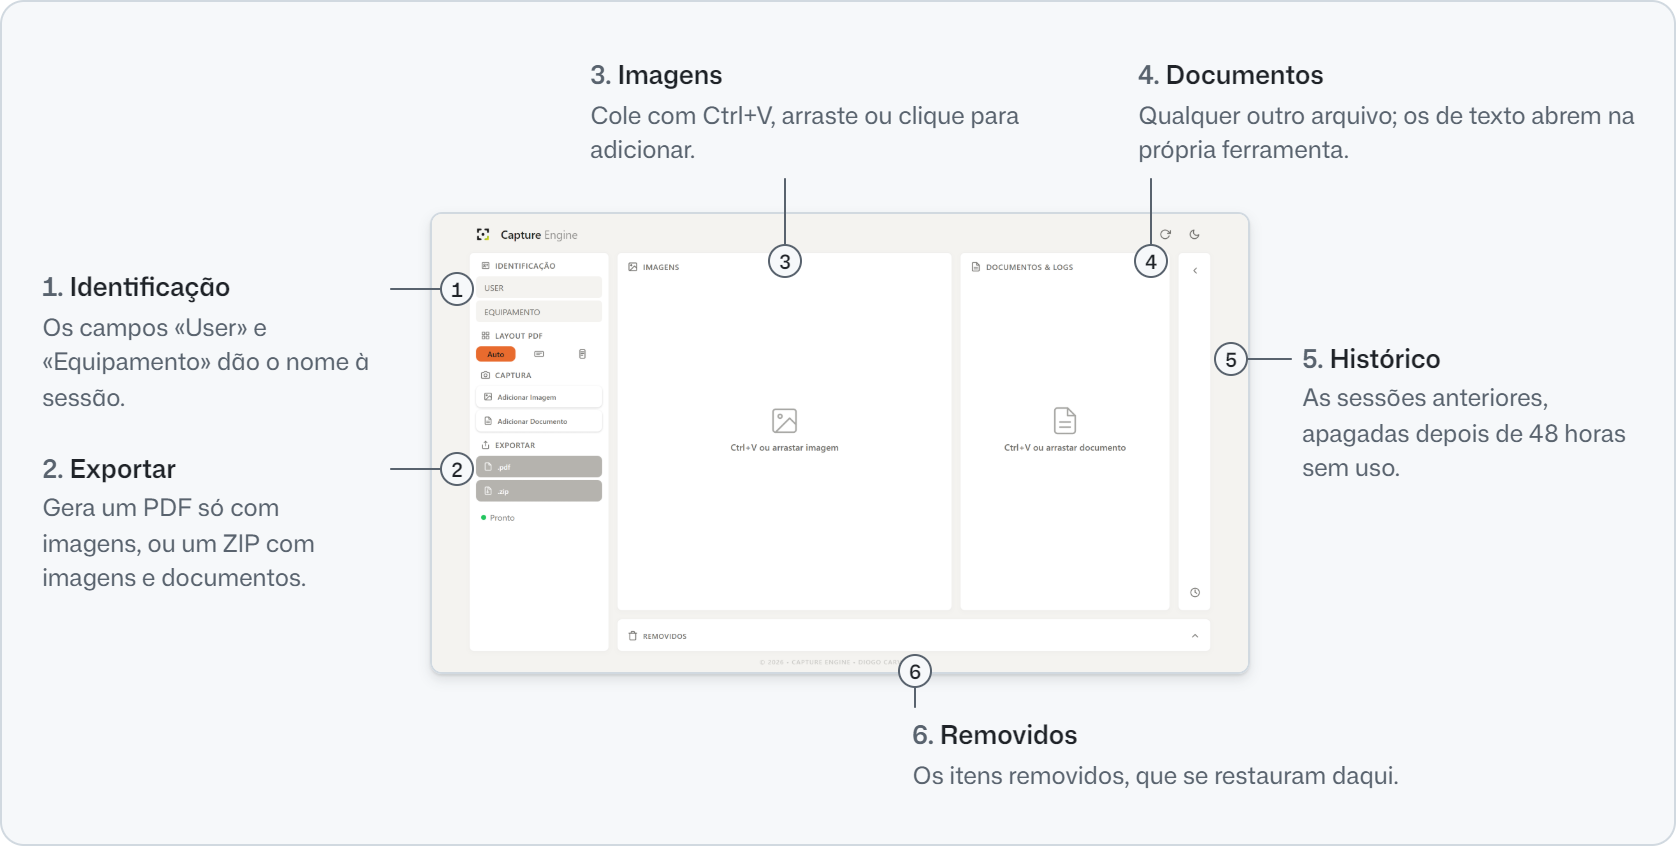
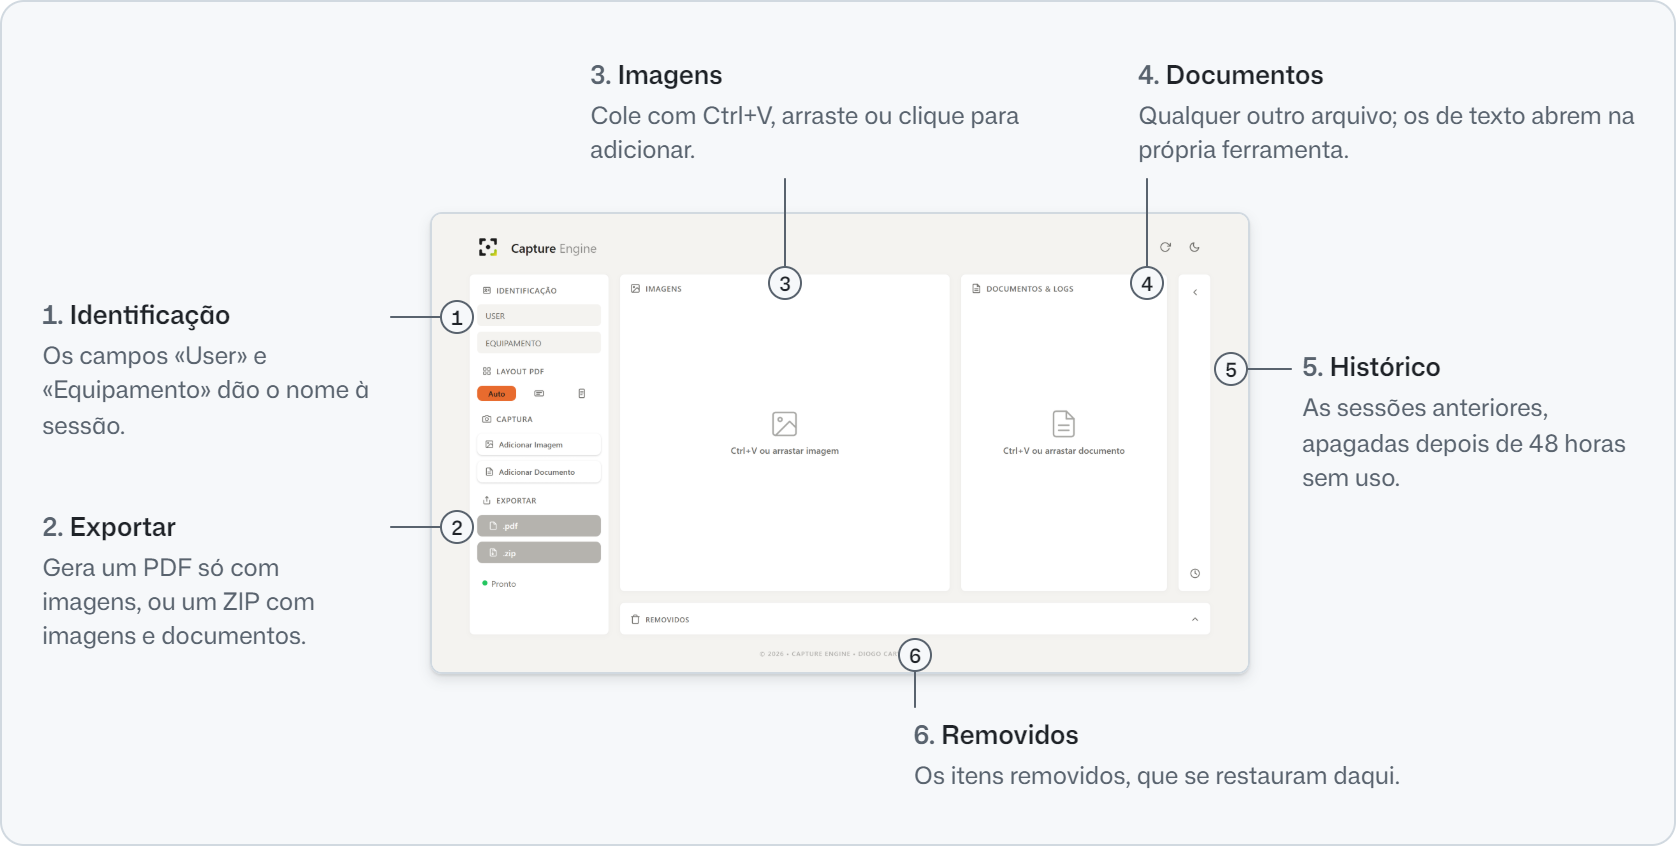
fix(ui): barra lateral sem aperto com o Windows a 125 % e 150 %
O modo compacto ligava abaixo de 800 px de altura, mesmo quando a barra cabia no tamanho normal. Agora liga só até 700 px e fica menos apertado: cerca de 14 px entre as seções, 6 px dentro delas e textos de 12 px. A imagem principal do README acompanha.

diff --git a/capture-engine.html b/capture-engine.html
@@ -2490,8 +2490,10 @@
       }
     }
 
-    /* ═══ RESPONSIVE HEIGHT (Small Laptops) ═══ */
-    @media (height <= 50rem) and (width >= 56.3125rem) {
+    /* ═══ RESPONSIVE HEIGHT (Small Laptops) ═══
+       Compact mode for short screens. Up to 700 px of height only: at 125 % Windows scaling (about 1536 x 777) the side panel fits
+       at its normal size, and compressing it there made it look cramped. At 150 % (about 1280 x 633) it compresses, but less */
+    @media (height <= 43.75rem) and (width >= 56.3125rem) {
       #top-bar {
         padding: calc(var(--spacing) * 3) calc(var(--spacing) * 16) calc(var(--spacing) * 1);
         min-height: 48px
@@ -2525,12 +2527,12 @@
       }
 
       #left-sidebar {
-        gap: clamp(4px, 1.5vh, calc(var(--spacing) * 2));
-        padding: clamp(4px, 1vh, calc(var(--spacing) * 2)) calc(var(--spacing) * 2.5)
+        gap: clamp(8px, 2.2vh, calc(var(--spacing) * 4));
+        padding: clamp(8px, 1.5vh, calc(var(--spacing) * 3)) calc(var(--spacing) * 2.5)
       }
 
       #left-sidebar>div {
-        gap: clamp(2px, 1vh, calc(var(--spacing) * 1)) !important
+        gap: clamp(4px, 1vh, calc(var(--spacing) * 2)) !important
       }
 
       #left-sidebar .sess-input {
@@ -2541,7 +2543,7 @@
       #left-sidebar .btn-send {
         height: clamp(24px, 4vh, 32px);
         min-height: 24px;
-        font-size: clamp(11px, 1.5vh, 12px);
+        font-size: var(--text-xs);
         padding: 0 calc(var(--spacing) * 3)
       }
 
@@ -3274,7 +3276,7 @@
   </div>
 
 
-  <!-- VISUAL BUILDER MODAL (28.5.1) -->
+  <!-- VISUAL BUILDER MODAL (28.5.2) -->
   <!-- ADMIN_EDIT_START -->
   <div class="sb-overlay" id="vb-overlay">
     <div class="sb-modal" style="max-width:520px">
@@ -3292,7 +3294,7 @@
             </path>
           </svg>
           Visual Builder <span
-            style="font-size:var(--text-caption);background:var(--color-border);padding:calc(var(--spacing) * 0.5) calc(var(--spacing) * 1.5);border-radius:var(--radius-sm);margin-left:calc(var(--spacing) * 1.5)">28.5.1</span>
+            style="font-size:var(--text-caption);background:var(--color-border);padding:calc(var(--spacing) * 0.5) calc(var(--spacing) * 1.5);border-radius:var(--radius-sm);margin-left:calc(var(--spacing) * 1.5)">28.5.2</span>
         </div>
         <p class="sb-subtitle">Preferências da interface</p>
       </div>
@@ -5892,7 +5894,7 @@ const safeDocName = dc.name.replace(/[/\\]/g, '_').replace(/\.\.\//g, '').replac
             async function init() {
               try {
                 await openDB(); SysLogger.info('IndexedDB OK'); await purgeExpired(); SysLogger.info('Purge OK');
-              } catch (e) { SysLogger.error('init DB: ' + e.message); try { showStorageBanner() } catch (_) {} } try { boot(); SysLogger.info('Capture Engine 28.5.1 Ready') } catch (e) { SysLogger.error('boot: ' + e.message) }
+              } catch (e) { SysLogger.error('init DB: ' + e.message); try { showStorageBanner() } catch (_) {} } try { boot(); SysLogger.info('Capture Engine 28.5.2 Ready') } catch (e) { SysLogger.error('boot: ' + e.message) }
             }
 function boot() { setInterval(async () => { if (isDirty) { await saveSession(); lastSaveAt = Date.now(); isDirty = false; updateStatusBar() } }, 5000); initClipboard(); initDragDrop(); initReorder(); initSidebar(); initPickers(); initTheme(); initTrashBar(); initPdfModal(); initVbSync(); initAdminGate(); initSessionSync(); initAnnotation(); applyTokens(); $('btn-zip').onclick = handleZipClick; $('btn-refresh').onclick = () => location.reload(); updateCounters(); updateBtns(); updateBtnTitles(); updateStatusBar();/* ADMIN_JS_START */capturePristine();/* ADMIN_JS_END */ }
 init();

diff --git a/design-tokens.md b/design-tokens.md
@@ -445,7 +445,7 @@ html.replace(/const TOKEN_MAIN_COLOR\s*=\s*'[^']*'/, "const TOKEN_MAIN_COLOR = '
 
 ## 10. Responsividade
 
-A interface tem dois cortes principais de largura, em `rem` (D-0082). Há ainda `width <= 48rem` (768px) e `(height <= 50rem) and (width >= 56.3125rem)`, para telas baixas.
+A interface tem dois cortes principais de largura, em `rem` (D-0082). Há ainda `width <= 48rem` (768px) e `(height <= 43.75rem) and (width >= 56.3125rem)`, para telas baixas: um modo compacto da barra lateral, só abaixo de 700px de altura. Com o Windows a 125 % numa tela de 1920 × 1080 (área de cerca de 1536 × 777), a barra cabe no tamanho normal; a 150 % (cerca de 1280 × 633), comprime, com espaços de cerca de 14px entre as seções e textos de 12px.
 
 ### `width <= 56.25rem` (900px) — tablets e telefones na horizontal
 
